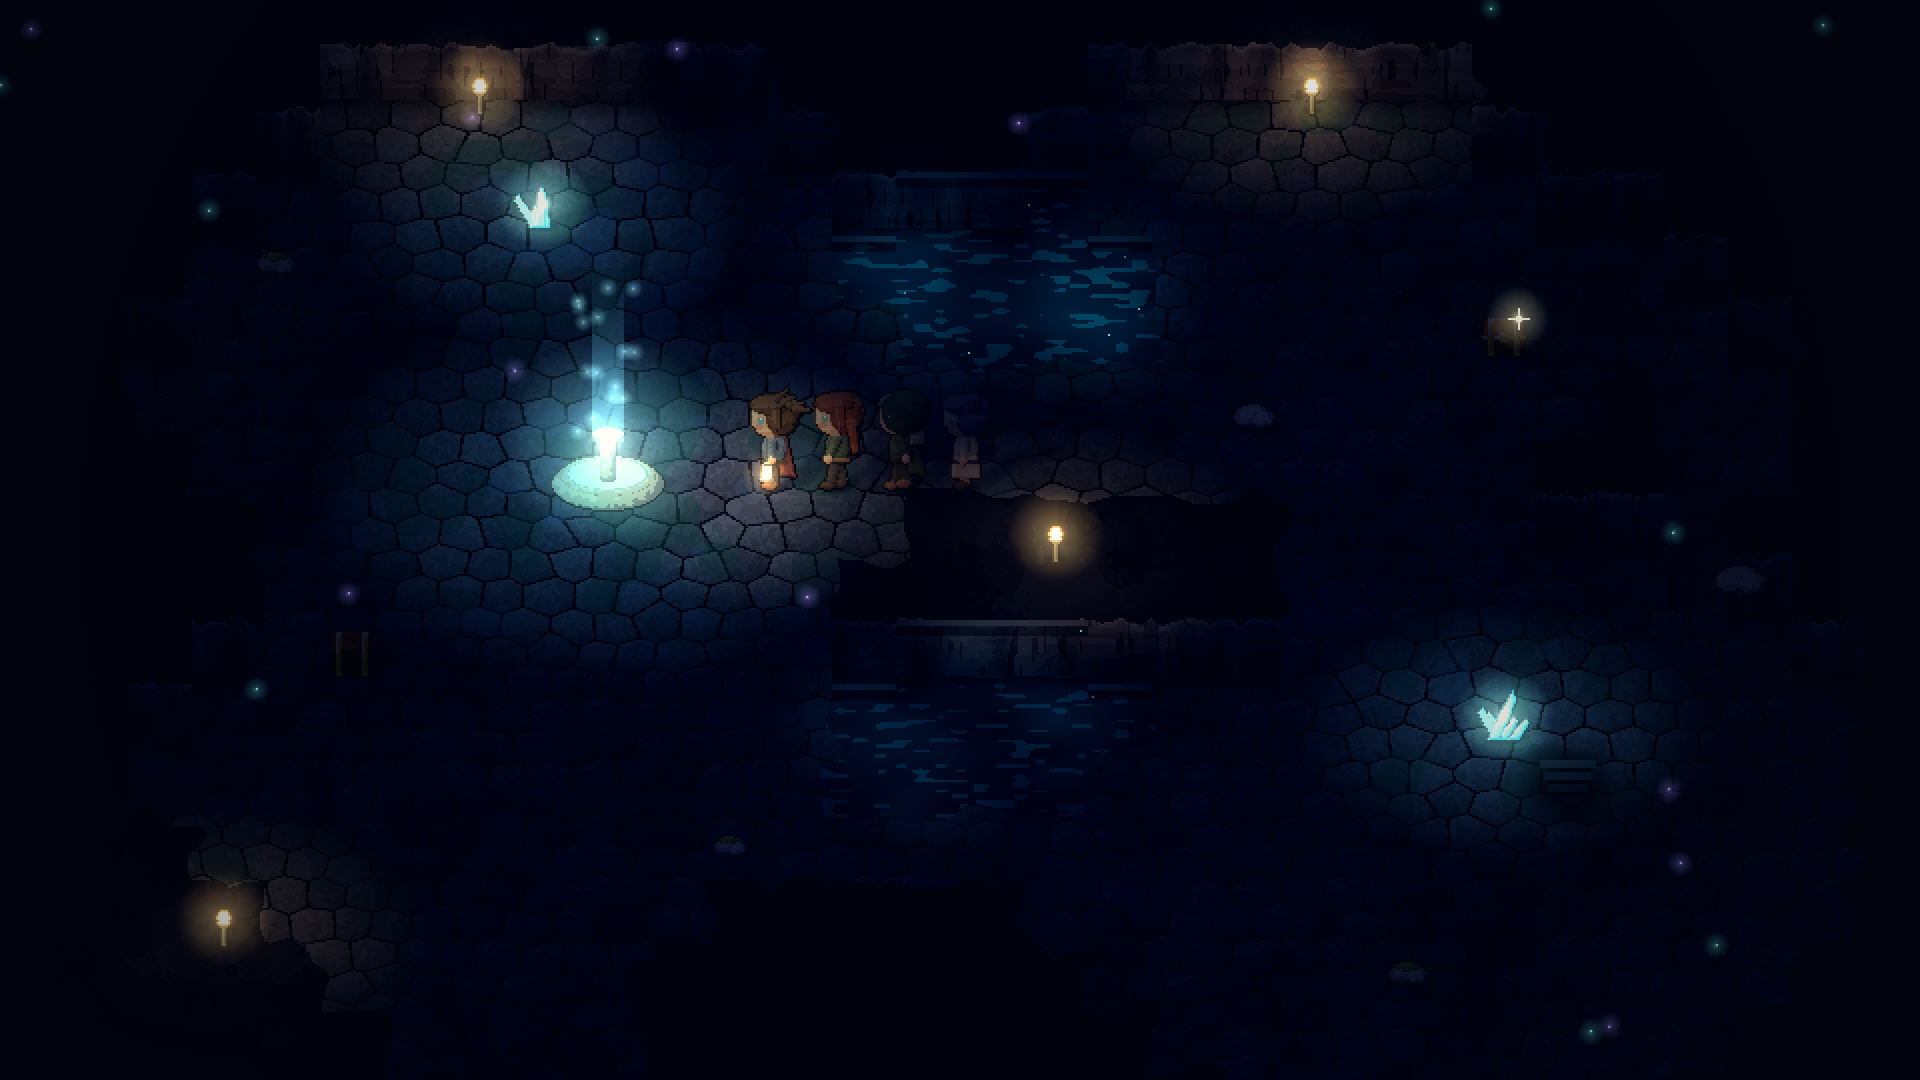
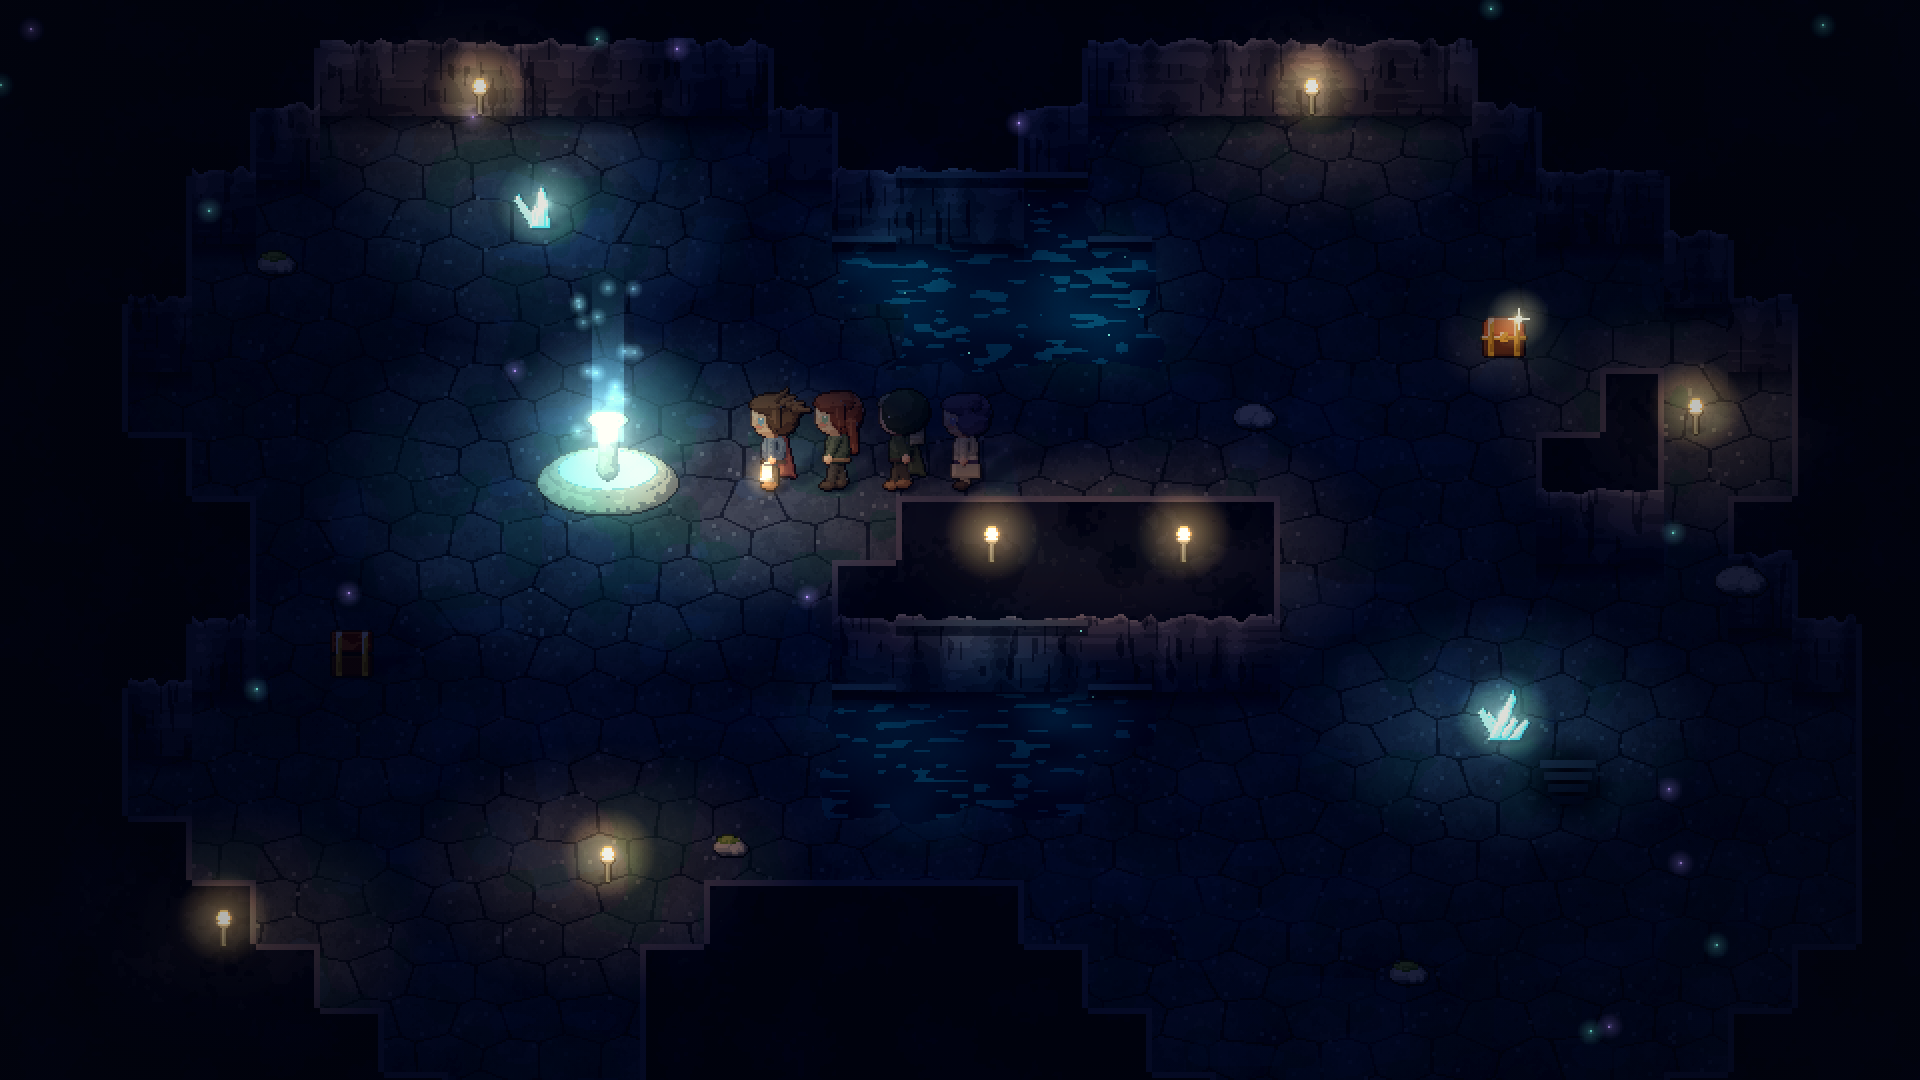
chronicle: BRIEF A32 (visual reference research; top-down maps, no HD-2D)
Claude-Session: https://claude.ai/code/session_0177zLTT6UFzP7vKu3AgJSLT

diff --git a/chronicle/design/art_proto/ui/art_world.js b/chronicle/design/art_proto/ui/art_world.js
@@ -6,7 +6,7 @@
   const mk = ENV.mk;
 
   const Q = {
-    rock: ramp(['#141218', '#24212a', '#38343e', '#4e4a52', '#68626a', '#847c82'], 8),
+    rock: ramp(['#1a1820', '#2c2934', '#423e4a', '#5a5462', '#76707c', '#948c96'], 8),
     rockTop: ramp(['#08080e', '#0e0e16', '#16161f', '#1e1e28', '#282833'], 6),
     caveFloor: ramp(['#1a1c22', '#2a2c34', '#3c3e48', '#50525c', '#666872'], 8),
     sand: ramp(['#3a3226', '#5a4e3a', '#7a6c50', '#9a8a68', '#b8a682'], 7),
@@ -65,18 +65,27 @@
     const Wt = 30, Ht = DUN.length, W = Wt * TS, H = Ht * TS, buf = new TD.Buf(W, H);
     for (let y = 0; y < H; y++) for (let x = 0; x < W; x++) {
       const jx = x + (vnoise(x * 0.07, y * 0.07, 3) - 0.5) * 16, jy = y + (vnoise(x * 0.07, y * 0.07, 4) - 0.5) * 12;
-      const t = dunTile(Math.floor(jx / TS), Math.floor(jy / TS));
+      const tr = dunTile(Math.floor(x / TS), Math.floor(y / TS)), tj = dunTile(Math.floor(jx / TS), Math.floor(jy / TS));
+      const t = tr === '#' ? '#' : (tj === '#' ? '.' : tj);
       let c;
       if (t === '#') {
         // ceiling rock seen from above: very dark, subtle lumps
         const l = 0.45 + (vnoise(x * 0.05, y * 0.05, 7) - 0.5) * 0.5 + (vnoise(x * 0.3, y * 0.3, 8) - 0.5) * 0.2;
         c = pick(Q.rockTop, l);
+        // rim where the rock top meets open floor at the sides
+        const tx = Math.floor(x / TS), ty = Math.floor(y / TS), ex = x - tx * TS;
+        if ((ex < 3 && dunTile(tx - 1, ty) !== '#') || (ex > TS - 4 && dunTile(tx + 1, ty) !== '#')) c = pick(Q.rock, 0.55);
+        if (ty > 0 && y - ty * TS < 3 && dunTile(tx, ty - 1) !== '#') c = pick(Q.rock, 0.5);
       } else if (t === '~') {
         const n = vnoise(x * 0.04, y * 0.07, 9), r = vnoise(x * 0.1, y * 0.4, 10);
         c = mix([8, 30, 44], [20, 70, 84], n * 0.8); if (r > 0.72) c = mix(c, [120, 230, 230], 0.35);
       } else {
         // wet slab floor: large flat stones + puddle sheen + moss
-        c = TD.cobbleAt(x, y, { cw: 22, ch: 15, ramp: Q.caveFloor, mortar: [14, 14, 18], flat: true });
+        const cb = TD.cobbleAt(x, y, { cw: 30, ch: 20, ramp: Q.caveFloor, mortar: [14, 14, 18], flat: true });
+        const f = 0.46 + (vnoise(x * 0.03, y * 0.04, 14) - 0.5) * 0.35 + (vnoise(x * 0.12, y * 0.12, 15) - 0.5) * 0.2 + (vnoise(x * 0.5, y * 0.5, 16) - 0.5) * 0.12;
+        c = pick(Q.caveFloor, f);
+        if (cb[0] === 14 && cb[2] === 18) c = mix(c, [10, 10, 16], 0.6); else c = mix(c, cb, 0.3);
+        if (TD.H3(x >> 1, y >> 1, 17) > 0.985) c = pick(Q.caveFloor, 0.9);
         if (vnoise(x * 0.05, y * 0.05, 12) > 0.66) c = mix(c, [30, 60, 50], 0.4);
         if (vnoise(x * 0.04, y * 0.06, 13) > 0.75) c = mix(c, [60, 80, 110], 0.3);
       }
@@ -85,7 +94,7 @@
     // wall front faces: rock tiles with floor below get a 1-tile face drawn over the floor tile top
     for (let ty = 0; ty < Ht; ty++) for (let tx = 0; tx < Wt; tx++) {
       if (dunTile(tx, ty) !== '#' || dunTile(tx, ty + 1) === '#') continue;
-      const x0 = tx * TS, y0 = (ty + 1) * TS - 4, h = 30;
+      const x0 = tx * TS, y0 = (ty + 1) * TS - 6, h = 40;
       buf.fill(x0, y0, x0 + TS, y0 + h, (x, y) => { const lip = vnoise(x * 0.2, 0, 21) * 5; const e = y - y0 - lip; if (e < 0) return null; return faceAt(x, y, e, h, 22, Q.rock); });
       // floor AO under the face
       for (let x = x0; x < x0 + TS; x++) for (let k = 0; k < 10; k++) buf.set(x, y0 + h + k, [4, 4, 10], 0.55 * (1 - k / 10));
@@ -104,8 +113,8 @@
       if (ch === 'C') TD.place(list, 'chest', tx + 0.5, ty + 0.8, { open: true });
     }
     // healing spring (WORLD_REDESIGN §6.2) and torches on wall faces
-    TD.place(list, 'spring', 9.5, 8.9);
-    [[7.5, 2.3], [20.5, 2.3], [16.5, 9.3], [3.5, 15.3]].forEach(([x, y]) => TD.place(list, 'torch', x, y + 0.7));
+    TD.place(list, 'spring', 9.5, 8.9, { scale: 1.25 });
+    [[7.5, 2.3], [20.5, 2.3], [15.5, 10.2], [18.5, 10.2], [3.5, 15.3], [26.5, 7.3], [9.5, 14.3]].forEach(([x, y]) => TD.place(list, 'torch', x, y + 0.7));
     [[4.3, 5.5, 9], [27.2, 10.5, 12], [11.4, 14.6, 8], [19.6, 7.9, 10], [22, 16.6, 9]].forEach(([x, y, s], i) => TD.place(list, 'rock', x, y, { s, seed: i + 3, moss: i % 2 === 0 }));
     // stairs down
     const dx = 24 * TS, dy = 13 * TS;
@@ -117,7 +126,7 @@
     const { lights, emits } = TD.composeScene(ctx, list, []);
     // pools glow faintly (bioluminescence)
     for (let ty = 0; ty < Ht; ty++) for (let tx = 0; tx < Wt; tx++) if (dunTile(tx, ty) === '~' && H3(tx, ty, 5) > 0.5) lights.push({ x: tx * TS + 16, y: ty * TS + 16, r: 48, c: [60, 200, 200], k: 0.35 });
-    TD.lightmap(ctx, W, H, 'rgb(30,36,64)', lights);
+    TD.lightmap(ctx, W, H, 'rgb(46,54,92)', lights);
     TD.drawEmissive(ctx, emits);
     // spring: a column of light and rising motes
     { const sx = 9.5 * TS, sy = 8.9 * TS - 24; ctx.save(); ctx.globalCompositeOperation = 'lighter';

diff --git a/chronicle/design/art_proto/ui/art_town.js b/chronicle/design/art_proto/ui/art_town.js
@@ -559,7 +559,7 @@
           emits.push({ kind: 'point', x: lx, y: ly, cyan: m.cyan, big: it.kind === 'beacon' || m.big });
         }
         if (it.o.lantern) { const lx = it.x + (it.o.ldx || 8), ly = it.y - 7; lights.push({ x: lx, y: it.y, r: 88, c: [255, 196, 120], k: 0.95, sy: 0.7 }); emits.push({ kind: 'point', x: lx, y: ly, small: true }); }
-        if (it.kind === 'chest' && !it.o.open) emits.push({ kind: 'sparkle', x: it.x + 7, y: it.y - 19 });
+        if (it.kind === 'chest' && !it.o.open) { emits.push({ kind: 'sparkle', x: it.x + 7, y: it.y - 19 }); lights.push({ x: it.x, y: it.y - 6, r: 34, c: [255, 210, 140], k: 0.7 }); }
       }
     }
     return { lights, emits, moonMask };
